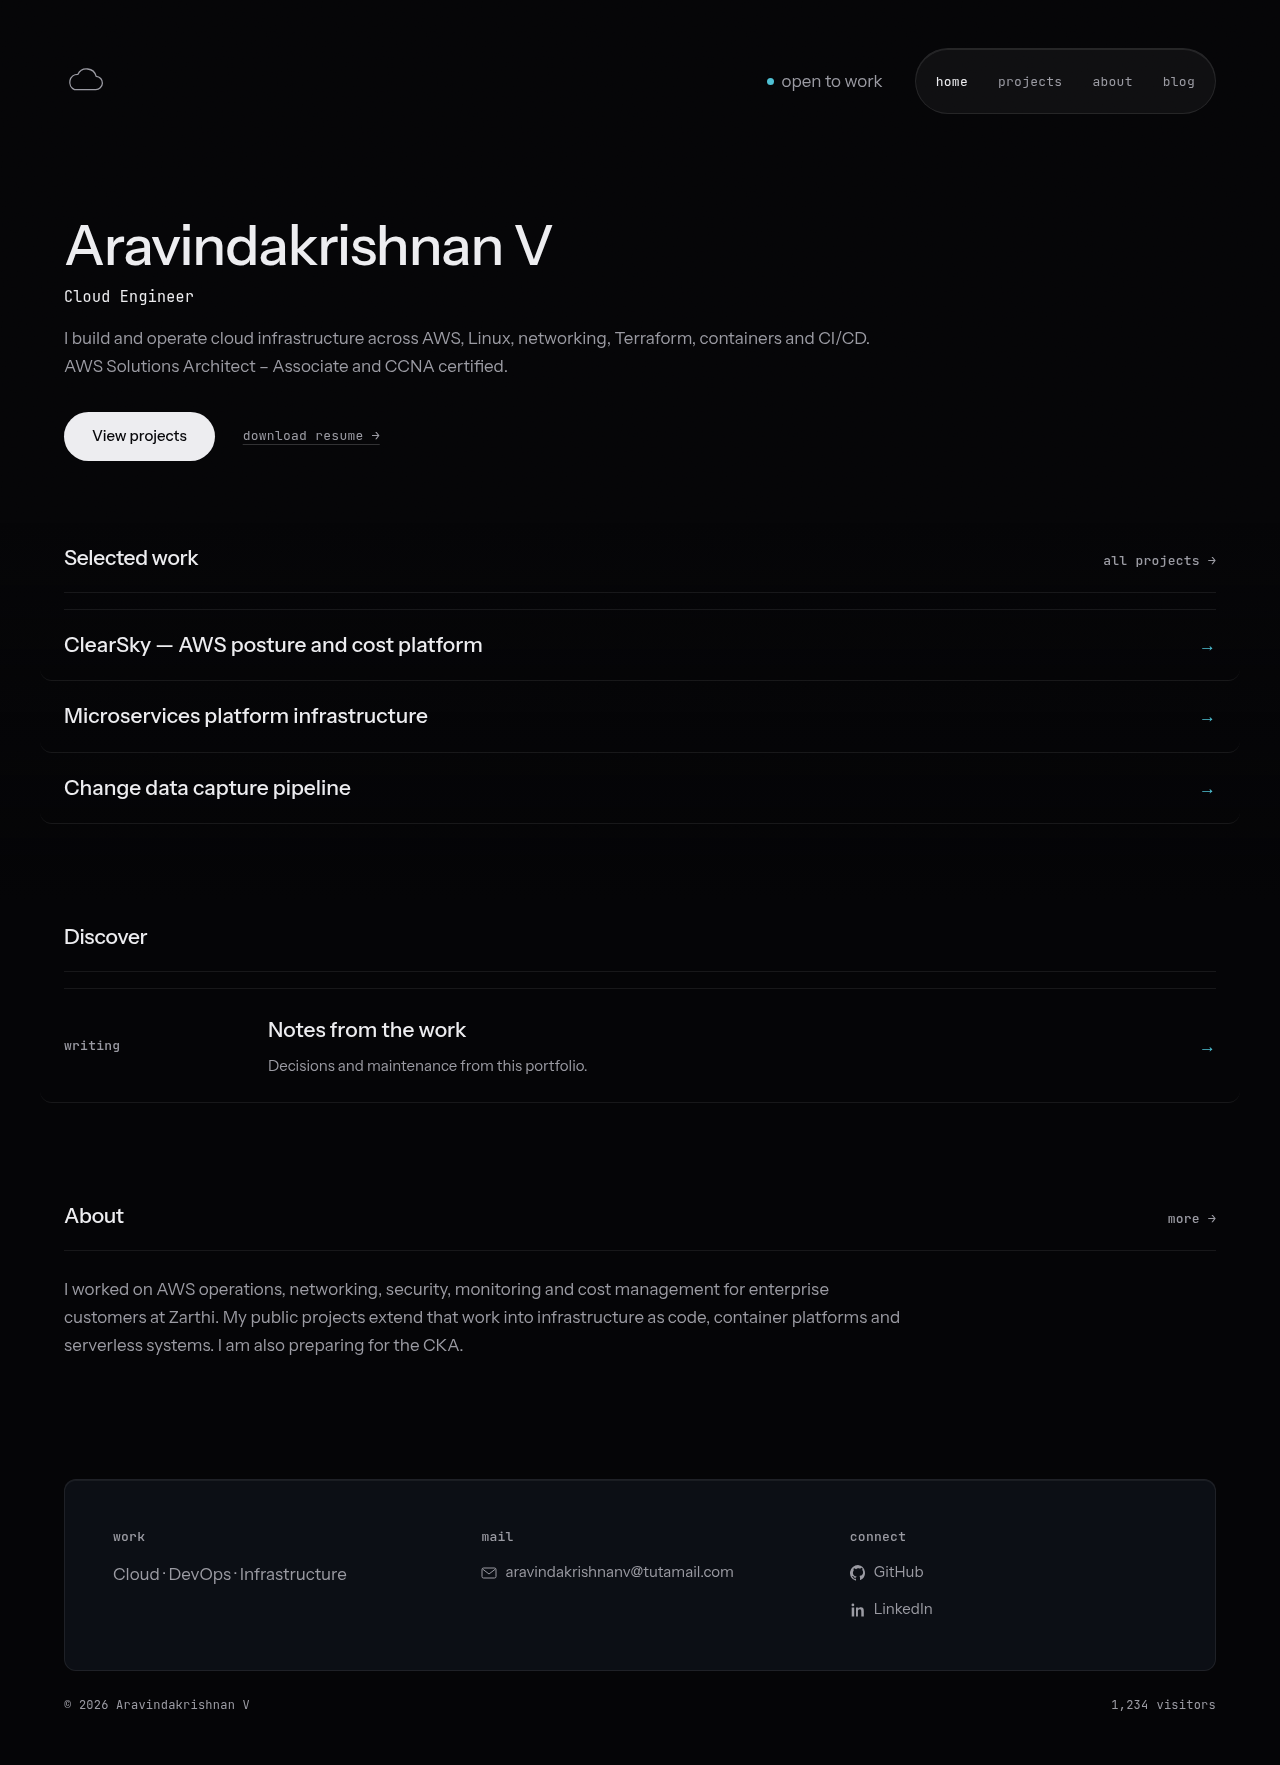
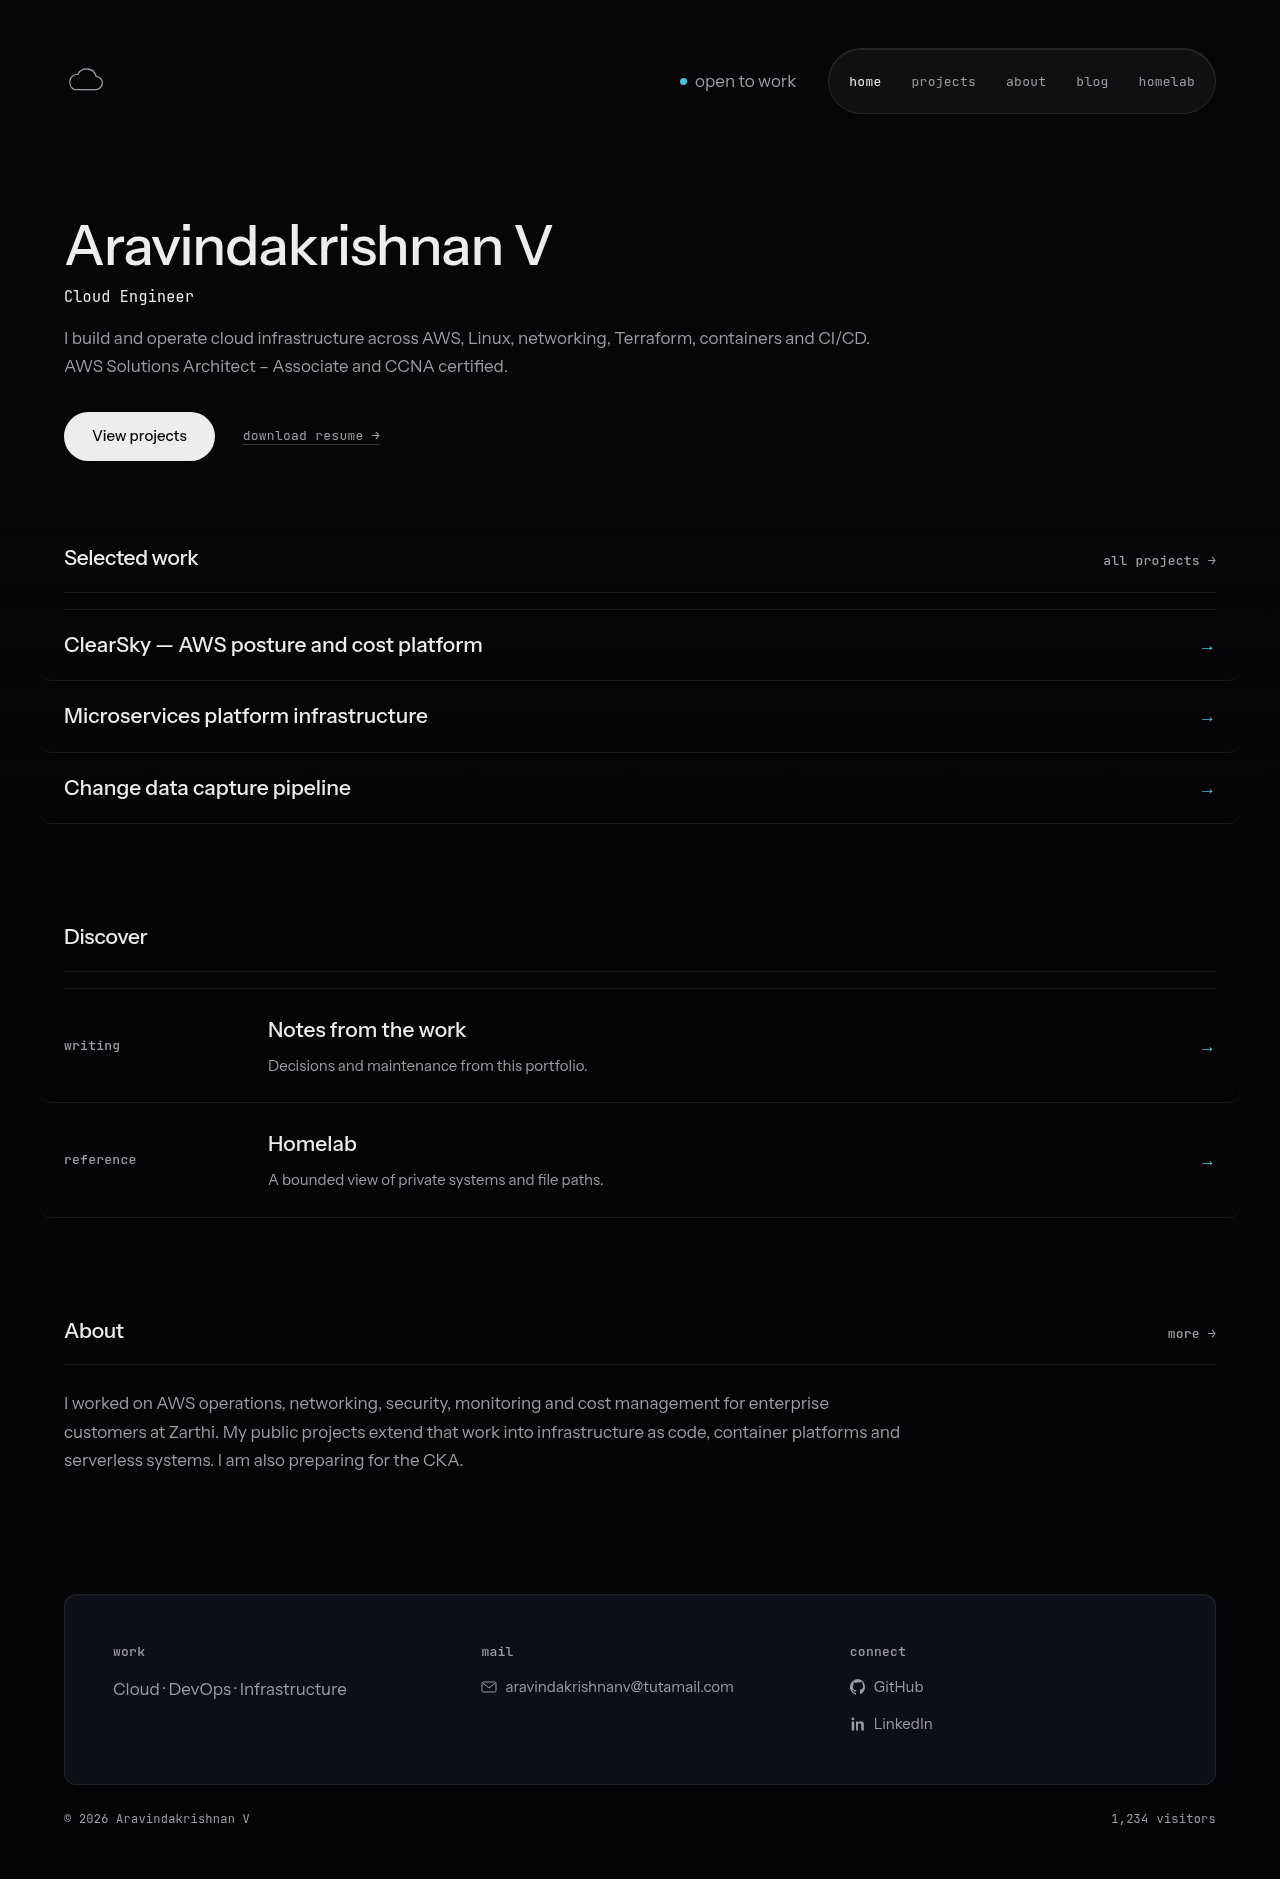
feat: add curated homelab reference and diagrams

diff --git a/web/src/lib/content.ts b/web/src/lib/content.ts
@@ -1,6 +1,7 @@
 import { getCollection, type CollectionEntry } from "astro:content";
 
 type BlogPost = CollectionEntry<"blog">;
+export type Reference = CollectionEntry<"reference">;
 
 export const isPublished = (post: BlogPost) =>
   !post.data.draft && post.data.published <= new Date().toISOString().slice(0, 10);
@@ -8,4 +9,12 @@ export const isPublished = (post: BlogPost) =>
 export const getPublishedBlogPosts = async (): Promise<BlogPost[]> =>
   (await getCollection("blog", isPublished)).sort((a, b) =>
     b.data.published.localeCompare(a.data.published),
+  );
+
+export const isPublishedReference = (entry: Reference) =>
+  !entry.data.draft && entry.data.reviewed <= new Date().toISOString().slice(0, 10);
+
+export const getPublishedReferences = async (): Promise<Reference[]> =>
+  (await getCollection("reference", isPublishedReference)).sort((a, b) =>
+    b.data.reviewed.localeCompare(a.data.reviewed),
   );

diff --git a/web/src/pages/sitemap.xml.ts b/web/src/pages/sitemap.xml.ts
@@ -1,10 +1,11 @@
 import type { APIRoute } from "astro";
-import { getPublishedBlogPosts } from "../lib/content";
+import { getPublishedBlogPosts, getPublishedReferences } from "../lib/content";
 import { projects } from "../lib/projects";
 
 const origin = "https://www.aravindakrishnan.cloud";
 export const GET: APIRoute = async () => {
   const posts = await getPublishedBlogPosts();
+  const references = await getPublishedReferences();
   const paths = [
     "/",
     "/projects.html",
@@ -14,6 +15,7 @@ export const GET: APIRoute = async () => {
       .filter((project) => project.caseStudy)
       .map((project) => `${project.caseStudy}.html`),
     ...posts.map((post) => `/blog/${post.id}.html`),
+    ...references.map((entry) => `/${entry.id}.html`),
   ];
   const urls = paths
     .map((path) => `  <url><loc>${origin}${path}</loc></url>`)

diff --git a/web/src/styles/global.css b/web/src/styles/global.css
@@ -477,6 +477,11 @@ figure.arch figcaption {
 .reading :is(p, ul, ol) { max-width: var(--measure); }
 .reading h2 { margin: 40px 0 12px; font-size: 27px; font-weight: 500; letter-spacing: -0.015em; }
 .reading a { text-decoration: underline; text-underline-offset: 3px; }
+.reference-figure { margin: 32px 0; max-width: var(--measure); }
+.reference-figure img { width: 100%; border: 1px solid var(--hairline); border-radius: 12px; background: var(--surface); }
+.reference-figure figcaption { margin-top: 12px; color: var(--muted); font: 13px/1.5 var(--mono); }
+.reference-figure figcaption a { white-space: nowrap; }
+
 .discover-list { margin-top: 16px; border-top: 1px solid var(--hairline); }
 .discover-list a {
   display: grid;

diff --git a/web/src/content.config.ts b/web/src/content.config.ts
@@ -1,11 +1,15 @@
 import { defineCollection } from "astro:content";
 import { glob } from "astro/loaders";
-import { blogId, blogSchema } from "./lib/content-schema";
+import { blogId, blogSchema, referenceId, referenceSchema } from "./lib/content-schema";
 
 const blog = defineCollection({
   loader: glob({ base: "./src/content/blog", pattern: "**/*.md", generateId: ({ entry }) => blogId(entry) }),
   schema: blogSchema,
 });
+const reference = defineCollection({
+  loader: glob({ base: "./src/content/reference", pattern: "**/*.md", generateId: ({ entry }) => referenceId(entry) }),
+  schema: referenceSchema,
+});
 
 export { blogSchema };
-export const collections = { blog };
+export const collections = { blog, reference };

diff --git a/web/src/lib/content-schema.ts b/web/src/lib/content-schema.ts
@@ -9,6 +9,21 @@ export const blogSchema = z.object({
   draft: z.boolean(),
 });
 
+export const referenceSchema = z.object({
+  title: z.string().min(1),
+  description: z.string().min(1),
+  reviewed: z.iso.date(),
+  draft: z.boolean(),
+});
+
+export const referenceId = (entry: string) => {
+  const id = entry.replace(/\.md$/, "").split("/").at(-1)!;
+  if (id !== "homelab" && id !== "how-i-work") {
+    throw new Error(`Reference filename must be homelab or how-i-work: ${entry}`);
+  }
+  return id;
+};
+
 export const blogId = (entry: string) => {
   const id = entry.replace(/\.md$/, "").split("/").at(-1)!;
   if (!/^[a-z0-9]+(?:-[a-z0-9]+)*$/.test(id)) {

diff --git a/docs/validation-homelab.md b/docs/validation-homelab.md
@@ -1,0 +1,33 @@
+# Homelab validation
+
+Phase 12, 2026-09-09. Adds a curated Markdown reference and two source-controlled
+Mermaid diagrams with committed SVG exports. Depends on the blog foundation.
+
+```text
+Pinned Node 24.18.1: lint passed, 4 tests passed
+Build: 17 HTML pages
+Browser checks: 12 non-redirect pages
+axe-core 4.13.0: 0 WCAG 2 A/AA and 2.1 A/AA violations per page
+Overflow: none at 320, 375, 768, 1280, 2560 px
+Local links, no-JS content and keyboard skip link: PASS
+External requests: 0; console errors: 0
+Mermaid CLI 11.17.0 repeated SVG renders: byte-identical
+SVG backgrounds: rgb(15, 18, 24)
+SVG viewBox widths: access 248.83, sync 291.63
+Label size: 16 px at intrinsic size; full-size links included
+Terraform plan: 7 add, 10 change, 1 destroy, 0 replace
+```
+
+Plan reviewed against the already-read blog plan. Only static S3 objects change.
+The expected destroy removes the old hashed CSS object, not a service or data store.
+The two new diagram objects have `image/svg+xml` content type.
+
+The public overview records only independently checked hardware, OS and selected Docker,
+Tailscale and Syncthing roles. It does not certify a complete live inventory. Public source
+and SVGs omit private identifiers, addresses, endpoints, operational logs and service counts.
+No private files, SSH access or renderer installation is needed to build the site.
+
+Screenshots: `docs/evidence/homelab-1280.png` and `homelab-375.png`. Initial screenshot
+review caught white SVG backgrounds and small sync labels; both were corrected and
+recaptured. No production apply performed. Fresh review and the final performance gate
+remain pending. Existing Checkov findings are unchanged, not waived.

diff --git a/web/src/content/reference/homelab.md b/web/src/content/reference/homelab.md
@@ -1,0 +1,28 @@
+---
+title: "A small, private homelab"
+description: "A bounded view of the devices, private access and file paths I use at home."
+reviewed: "2026-09-09"
+draft: false
+---
+
+This is a curated reference reviewed on 2026-09-09. It is not a complete or live inventory.
+
+## Selected service access
+
+An HP EliteDesk 800 G3 DM (65W) runs Linux Mint 22.3. Docker and Tailscale are active. For private services described here, access goes through Tailscale. Service data lives separately from containers, so replacing a container does not erase its persistent data.
+
+<figure class="reference-figure">
+  <img src="/diagrams/homelab-access.svg" alt="A selected private device connects through Tailscale to selected container services and then persistent data." />
+  <figcaption>Selected private service path. <a href="/diagrams/homelab-access.svg">Open the full-size SVG</a> · <a href="https://github.com/arkhiVd/portfolio-infra/tree/main/web/diagrams">source</a></figcaption>
+</figure>
+
+## Selected file sync
+
+Syncthing is running. A laptop and phone exchange files through Syncthing. That keeps the working copies aligned, but sync is not backup.
+
+<figure class="reference-figure">
+  <img src="/diagrams/homelab-sync.svg" alt="A laptop and phone exchange selected files through Syncthing." />
+  <figcaption>Selected file path. Sync is not backup. <a href="/diagrams/homelab-sync.svg">Open the full-size SVG</a> · <a href="https://github.com/arkhiVd/portfolio-infra/tree/main/web/diagrams">source</a></figcaption>
+</figure>
+
+The public portfolio runs separately on AWS. It does not make live calls to the homelab.

diff --git a/web/diagrams/README.md b/web/diagrams/README.md
@@ -1,0 +1,10 @@
+# Diagram sources
+
+The Mermaid sources in this directory are rendered to `web/public/diagrams/` with Mermaid CLI 11.17.0. From `web`, run with an operator-supplied Puppeteer config:
+
+```sh
+mmdc -p "$PUPPETEER_CONFIG" -c diagrams/mermaid.config.json -b "#0F1218" -i diagrams/homelab-access.mmd -o public/diagrams/homelab-access.svg
+mmdc -p "$PUPPETEER_CONFIG" -c diagrams/mermaid.config.json -b "#0F1218" -i diagrams/homelab-sync.mmd -o public/diagrams/homelab-sync.svg
+```
+
+The committed SVGs keep clean-clone builds independent of the renderer. Captions carry the "sync is not backup" note.
